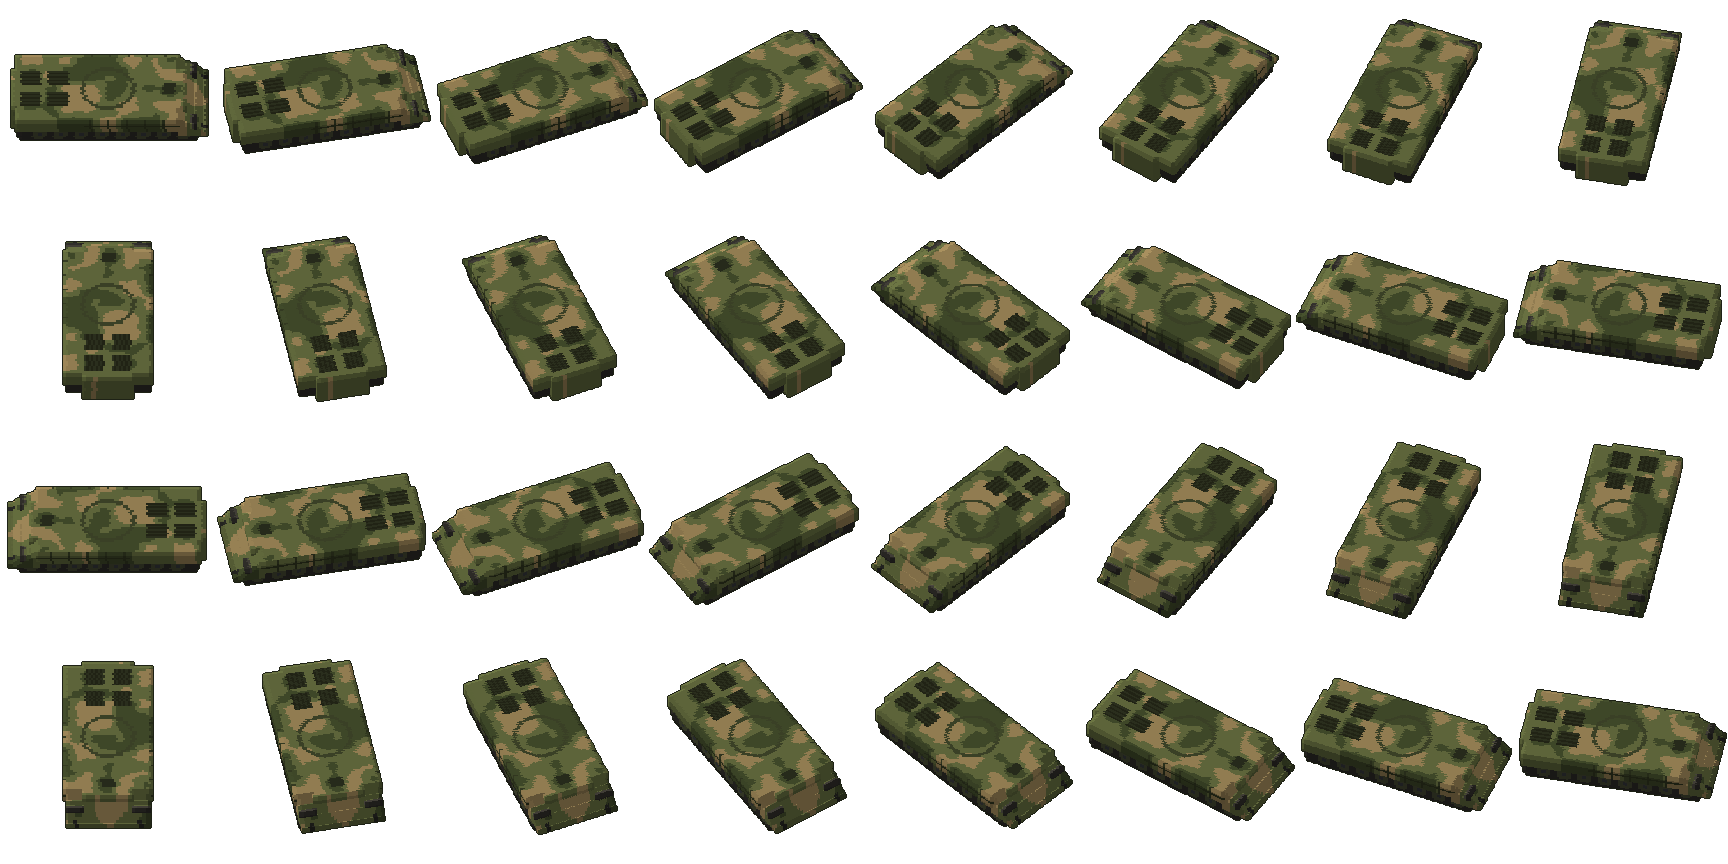
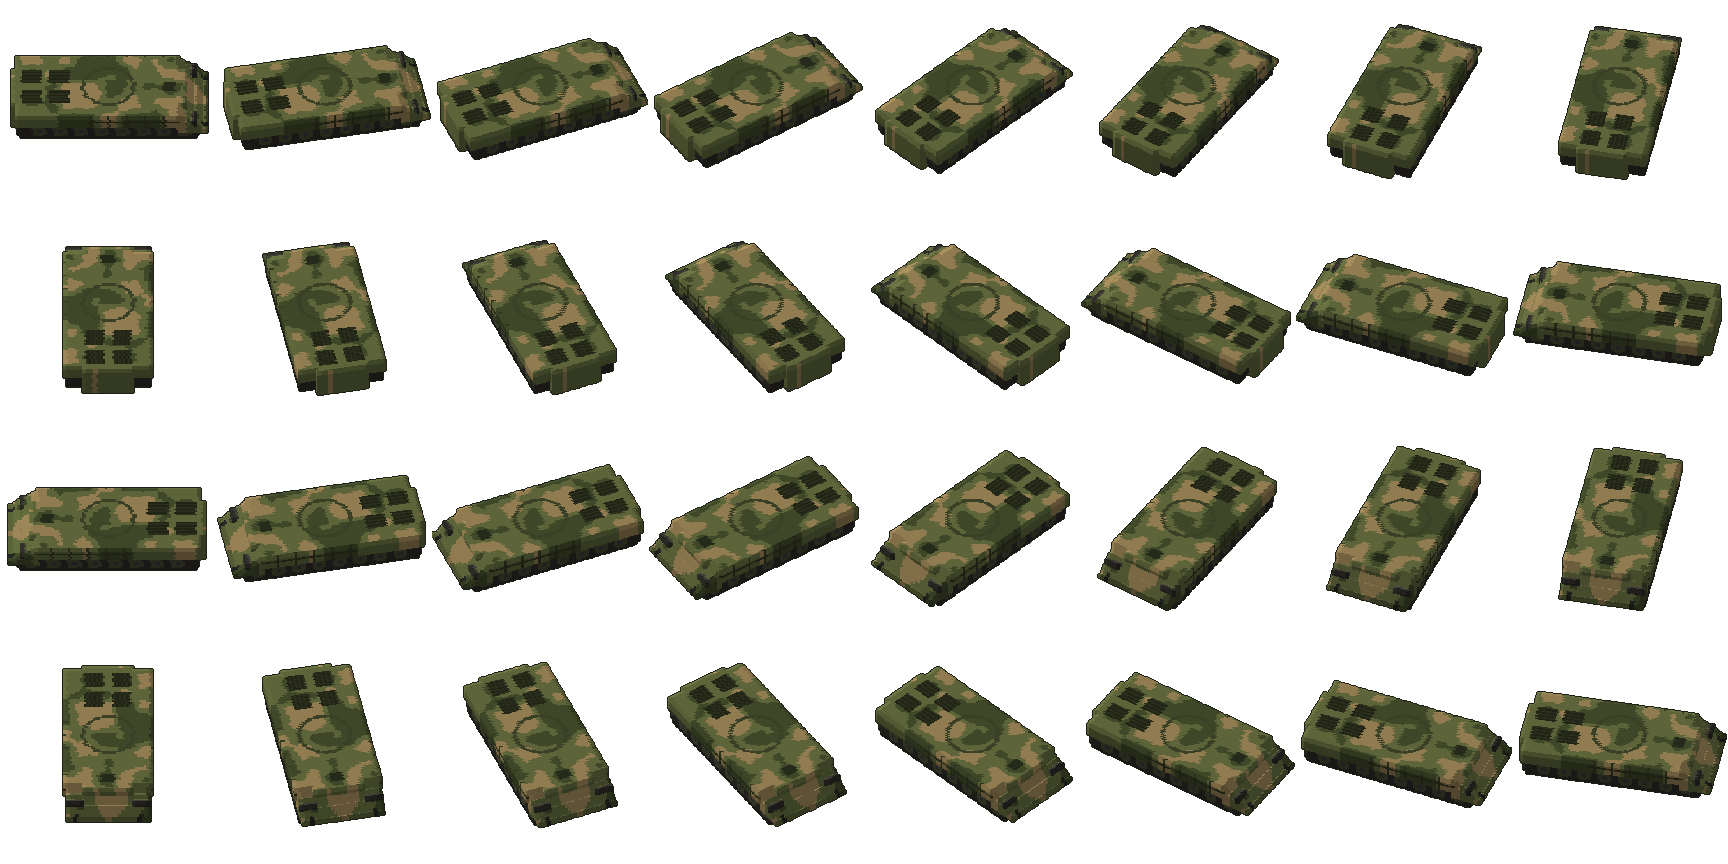
Tank: game sounds, 45 degree tilt, cached nose direction
Claude-Session: https://claude.ai/code/session_01PqPi8VGMZAc8ooviW74CCy

diff --git a/src/Audio.cs b/src/Audio.cs
@@ -1,127 +1,97 @@
 using System;
-using System.Text;
 using UnityEngine;
-using UnityEngine.Audio;
 
 namespace ZedTank;
 
-// Sounds come from the game itself: a machine gun's fire clip for the roof gun and the
-// recoilless launcher's (or the heaviest gun's) fire clip for the main gun.
+// Sounds come from the game itself: the 84mm recoilless rifle's fire clip for the main gun
+// and a machine gun's fire clip for the roof gun. Weapon clips are loaded on demand by the
+// game (AudioController.LoadRangedWeaponClip), so they are fetched through it and played
+// with AudioController.PlayAt like the game's own shots.
 internal static class TankAudio
 {
-	private static bool _init;
-	private static AudioClip _mg;
-	private static AudioClip _cannon;
-	private static AudioMixerGroup _group;
-	private static AudioSource _src;
+	private static AudioClip _mg, _cannon;
+	private static bool _mgTried, _cannonTried;
 
 	private static float Vol => Mathf.Clamp01(TankPlugin.Volume.Value);
 
 	private static int ScoreMg(string t)
 	{
-		if (t.Contains("pistol") || t.Contains("shotgun") || t.Contains("bow") || t.Contains("flare") || t.Contains("launcher") || t.Contains("revolver")) return 0;
-		if (t.Contains("m2") || t.Contains("50bmg") || t.Contains("browning")) return 4;
-		if (t.Contains("m249") || t.Contains("mg") || t.Contains("machine") || t.Contains("minigun") || t.Contains("lmg") || t.Contains("m60") || t.Contains("pkm") || t.Contains("rpk")) return 3;
-		if (t.Contains("ak") || t.Contains("m4") || t.Contains("rifle") || t.Contains("556") || t.Contains("762")) return 2;
+		if (t.Contains("pistol") || t.Contains("shotgun") || t.Contains("bow") || t.Contains("flare") || t.Contains("launcher") || t.Contains("revolver") || t.Contains("recoilless")) return 0;
+		if (t.Contains("m2 ") || t.Contains(".50") || t.Contains("50bmg") || t.Contains("browning")) return 4;
+		if (t.Contains("m249") || t.Contains("machine") || t.Contains("minigun") || t.Contains("lmg") || t.Contains("m60") || t.Contains("pkm") || t.Contains("rpk") || t.Contains(" mg")) return 3;
+		if (t.Contains("ak") || t.Contains("m4") || t.Contains("rifle") || t.Contains("5.56") || t.Contains("7.62")) return 2;
 		return 1;
 	}
 
-	private static int ScoreCannon(string t)
+	internal static AudioClip Load(ItemAttr_RangedWeapon w)
 	{
-		if (t.Contains("recoilless") || t.Contains("carl") || t.Contains("gustaf") || t.Contains("rpg") || t.Contains("rocket")) return 5;
-		if (t.Contains("launcher") || t.Contains("cannon") || t.Contains("grenade")) return 4;
-		if (t.Contains("50bmg") || t.Contains("barrett") || t.Contains("m82")) return 3;
-		if (t.Contains("shotgun") || t.Contains("magnum") || t.Contains("sniper")) return 2;
-		return 0;
-	}
-
-	private static void Init()
-	{
-		if (_init) return;
-		_init = true;
-		var sb = new StringBuilder("Audio: ");
-		try
+		if (w == null) return null;
+		string name = null;
+		try { name = w.fireClip; } catch { }
+		if (string.IsNullOrEmpty(name)) return null;
+		AudioClip c = null;
+		foreach (string slot in new[] { "fire", "Fire", "fireClip" })
 		{
-			int bm = -1, bc = 0;
-			foreach (BasicRangedWeapon w in Resources.FindObjectsOfTypeAll<BasicRangedWeapon>())
-			{
-				if (w == null || w.fireClip == null) continue;
-				string t = (w.name + "|" + w.fireClip.name).ToLowerInvariant();
-				int m = ScoreMg(t);
-				if (m > bm) { bm = m; _mg = w.fireClip; }
-				int c = ScoreCannon(t);
-				if (c > bc) { bc = c; _cannon = w.fireClip; }
-			}
+			try { c = AudioController.instance?.LoadRangedWeaponClip(w, slot, name); } catch { }
+			if (c != null) return c;
 		}
-		catch (Exception e) { sb.Append("guns " + e.Message + "; "); }
+		foreach (string path in new[] { name, "Audio/" + name, "Sounds/" + name, "Audio/Weapon/" + name, "Weapon/" + name })
+		{
+			try { c = Resources.Load<AudioClip>(path); } catch { }
+			if (c != null) return c;
+		}
 		try
 		{
-			string want = Rockets.FireClipName;
-			if (!string.IsNullOrEmpty(want))
-			{
-				foreach (AudioClip a in Resources.FindObjectsOfTypeAll<AudioClip>())
-				{
-					if (a != null && string.Equals(a.name, want, StringComparison.OrdinalIgnoreCase)) { _cannon = a; break; }
-				}
-			}
+			foreach (AudioClip a in Resources.FindObjectsOfTypeAll<AudioClip>())
+				if (a != null && string.Equals(a.name, name, StringComparison.OrdinalIgnoreCase)) return a;
 		}
 		catch { }
+		return null;
+	}
+
+	private static AudioClip Cannon()
+	{
+		if (_cannon != null || _cannonTried) return _cannon;
+		_cannonTried = true;
+		_cannon = Load(Rockets.Launcher);
+		TLog.Info($"Audio: main gun clip '{Rockets.FireClipName}' -> {(_cannon != null ? _cannon.name : "not found")}");
+		return _cannon;
+	}
+
+	private static AudioClip Mg()
+	{
+		if (_mg != null || _mgTried) return _mg;
+		_mgTried = true;
+		ItemAttr_RangedWeapon best = null;
+		int bs = -1;
 		try
 		{
-			int best = -1;
-			foreach (AudioSource s in Resources.FindObjectsOfTypeAll<AudioSource>())
+			var list = ItemManager.instance.itemList;
+			for (int i = 0; i < list.Count; i++)
 			{
-				AudioMixerGroup g = s != null ? s.outputAudioMixerGroup : null;
-				if (g == null) continue;
-				string t = (g.name ?? "").ToLowerInvariant();
-				int k = 1;
-				if (t.Contains("music") || t.Contains("bgm") || t.Contains("ui") || t.Contains("voice") || t.Contains("ambient")) k = 0;
-				if (t.Contains("sfx") || t.Contains("effect") || t.Contains("sound") || t.Contains("world")) k = 2;
-				if (k > best) { best = k; _group = g; }
+				ItemAttr_RangedWeapon w = list[i]?.TryCast<ItemAttr_RangedWeapon>();
+				if (w == null || string.IsNullOrEmpty(w.fireClip)) continue;
+				string t = ((w.ItemName_EN ?? "") + "|" + w.fireClip).ToLowerInvariant();
+				int s = ScoreMg(t) + (w.fullAuto ? 1 : 0);
+				if (s > bs) { bs = s; best = w; }
 			}
 		}
-		catch { }
-		sb.Append($"mg={(_mg != null ? _mg.name : "none")} cannon={(_cannon != null ? _cannon.name : "none")} mixer={(_group != null ? _group.name : "none")}");
-		TLog.Info(sb.ToString());
+		catch (Exception e) { TLog.Warn("mg sound search: " + e.Message); }
+		_mg = Load(best);
+		string bn = "?";
+		try { bn = best?.ItemName_EN; } catch { }
+		TLog.Info($"Audio: machine gun sound from '{bn}' -> {(_mg != null ? _mg.name : "not found")}");
+		return _mg;
 	}
 
-	private static AudioSource Src()
+	private static void Play(AudioClip c, Vector2 at, float vol)
 	{
-		if (_src != null) return _src;
-		var go = new GameObject("zt_tank_audio");
-		Object.DontDestroyOnLoad(go);
-		go.hideFlags = HideFlags.HideAndDontSave;
-		_src = go.AddComponent<AudioSource>();
-		_src.playOnAwake = false;
-		_src.spatialBlend = 0f;
-		if (_group != null) _src.outputAudioMixerGroup = _group;
-		return _src;
+		if (c == null) return;
+		try { AudioController.instance.PlayAt(c, new Vector3(at.x, at.y, 0f), vol * Vol); }
+		catch (Exception e) { TLog.Warn("sound: " + e.Message); }
 	}
 
-	private static float Falloff(Vector2 at)
-	{
-		try
-		{
-			float d = ((Vector2)GameController.instance.playerCharacter.transform.position - at).magnitude;
-			return Mathf.Clamp01(1f - d / 50f);
-		}
-		catch { return 1f; }
-	}
+	public static void Mg(Vector2 at) => Play(Mg(), at, 0.7f);
 
-	public static void Mg(Vector2 at)
-	{
-		Init();
-		try { if (_mg != null) Src().PlayOneShot(_mg, Vol * 0.6f * Falloff(at)); } catch { }
-	}
-
-	public static void Cannon(Vector2 at)
-	{
-		Init();
-		try
-		{
-			if (_cannon == null) return;
-			Src().PlayOneShot(_cannon, Vol * Falloff(at));
-		}
-		catch { }
-	}
+	public static void Cannon(Vector2 at) => Play(Cannon(), at, 1f);
 }

diff --git a/src/Tank.cs b/src/Tank.cs
@@ -29,7 +29,7 @@ internal static partial class Tank
 	private const int Frames = 32;
 	private const int HullCell = 216, TurretCell = 360;
 	private const float PxPerDm = 2.3f;                     // render scale: pixels per decimetre
-	private static readonly float Tilt = 40f * Mathf.Deg2Rad;  // render camera tilt from straight down
+	private static readonly float Tilt = 45f * Mathf.Deg2Rad;  // render camera tilt from straight down (the game's car camera is 45)
 	private static readonly Vector3 BarrelTip = new Vector3(76f, 0f, 18f);   // model space, decimetres
 	private static readonly Vector3 MgTip = new Vector3(12f, 7f, 23f);
 	private static readonly Vector3 RingTop = new Vector3(0f, 0f, 18f);
@@ -61,7 +61,9 @@ internal static partial class Tank
 	private static float _callWait;
 	private static float _cannonAt;
 	private static float _mgAt;
-	private static float _fwd;
+	// The base car's nose direction in its own space. 180 is what the pickup (the base car in
+	// this game version) uses; it's confirmed from the headlights and cached in Tank.forward.txt.
+	private static float _fwd = 180f;
 	private static bool _fwdKnown;
 	private static int _baseId = -1;
 	private static int _sortLayer;
@@ -79,6 +81,23 @@ internal static partial class Tank
 	public static bool Crewing => _mine != null;
 
 	private static string FilePath => Path.Combine(Paths.ConfigPath, $"Tank.{_saveId}.txt");
+	private static string FwdPath => Path.Combine(Paths.ConfigPath, "Tank.forward.txt");
+
+	private static void LoadForward()
+	{
+		try
+		{
+			if (_fwdKnown || !File.Exists(FwdPath)) return;
+			string[] a = File.ReadAllText(FwdPath).Trim().Split('|');
+			if (a.Length >= 2 && int.Parse(a[0], CI) == BaseId())
+			{
+				_fwd = F(a[1]);
+				_fwdKnown = true;
+				TLog.Info($"Base car nose direction {_fwd:0} (cached)");
+			}
+		}
+		catch { }
+	}
 
 	// ------------------------------------------------------------------ messages
 
@@ -570,6 +589,7 @@ internal static partial class Tank
 			if (_fwd <= -180f) _fwd += 360f;
 			_fwdKnown = true;
 			_dirty = true;
+			try { File.WriteAllText(FwdPath, $"{BaseId()}|{_fwd.ToString("0", CI)}"); } catch { }
 			TLog.Info($"Base car nose points {_fwd:0} degrees in its own space");
 		}
 		catch (Exception e) { TLog.Warn("forward: " + e.Message); }
@@ -749,6 +769,7 @@ internal static partial class Tank
 			catch { }
 		}
 		if (!Sprites()) return;
+		LoadForward();
 		float now = Time.realtimeSinceStartup;
 		if (now >= _scanAt)
 		{

diff --git a/src/Rockets.cs b/src/Rockets.cs
@@ -17,6 +17,7 @@ internal static class Rockets
 	internal static int LauncherId = -1;
 	internal static string AmmoName = "rockets";
 	internal static string FireClipName;
+	internal static ItemAttr_RangedWeapon Launcher;
 	private static float _speed = 40f;
 
 	internal static bool Find()
@@ -48,6 +49,7 @@ internal static class Rockets
 				_prefab = go;
 				AmmoId = w.ammoId;
 				LauncherId = w.itemId;
+				Launcher = w;
 				if (w.bulletSpeed > 1f) _speed = w.bulletSpeed;
 				try { FireClipName = w.fireClip; } catch { }
 				try { AmmoName = im.FindItemAttrById(AmmoId)?.ItemName_EN ?? AmmoName; } catch { }

diff --git a/art-src/render_angles.py b/art-src/render_angles.py
@@ -11,7 +11,7 @@ import numpy as np
 from PIL import Image
 
 OUT = sys.argv[1] if len(sys.argv) > 1 else "."
-TILT = math.radians(40)   # camera tilt from straight down
+TILT = math.radians(45)   # camera tilt from straight down (the game's car camera: 45)
 PX = 2.3                  # pixels per decimetre
 FRAMES = 32
 LIGHT = np.array([-0.45, 0.55, 0.70]); LIGHT /= np.linalg.norm(LIGHT)
